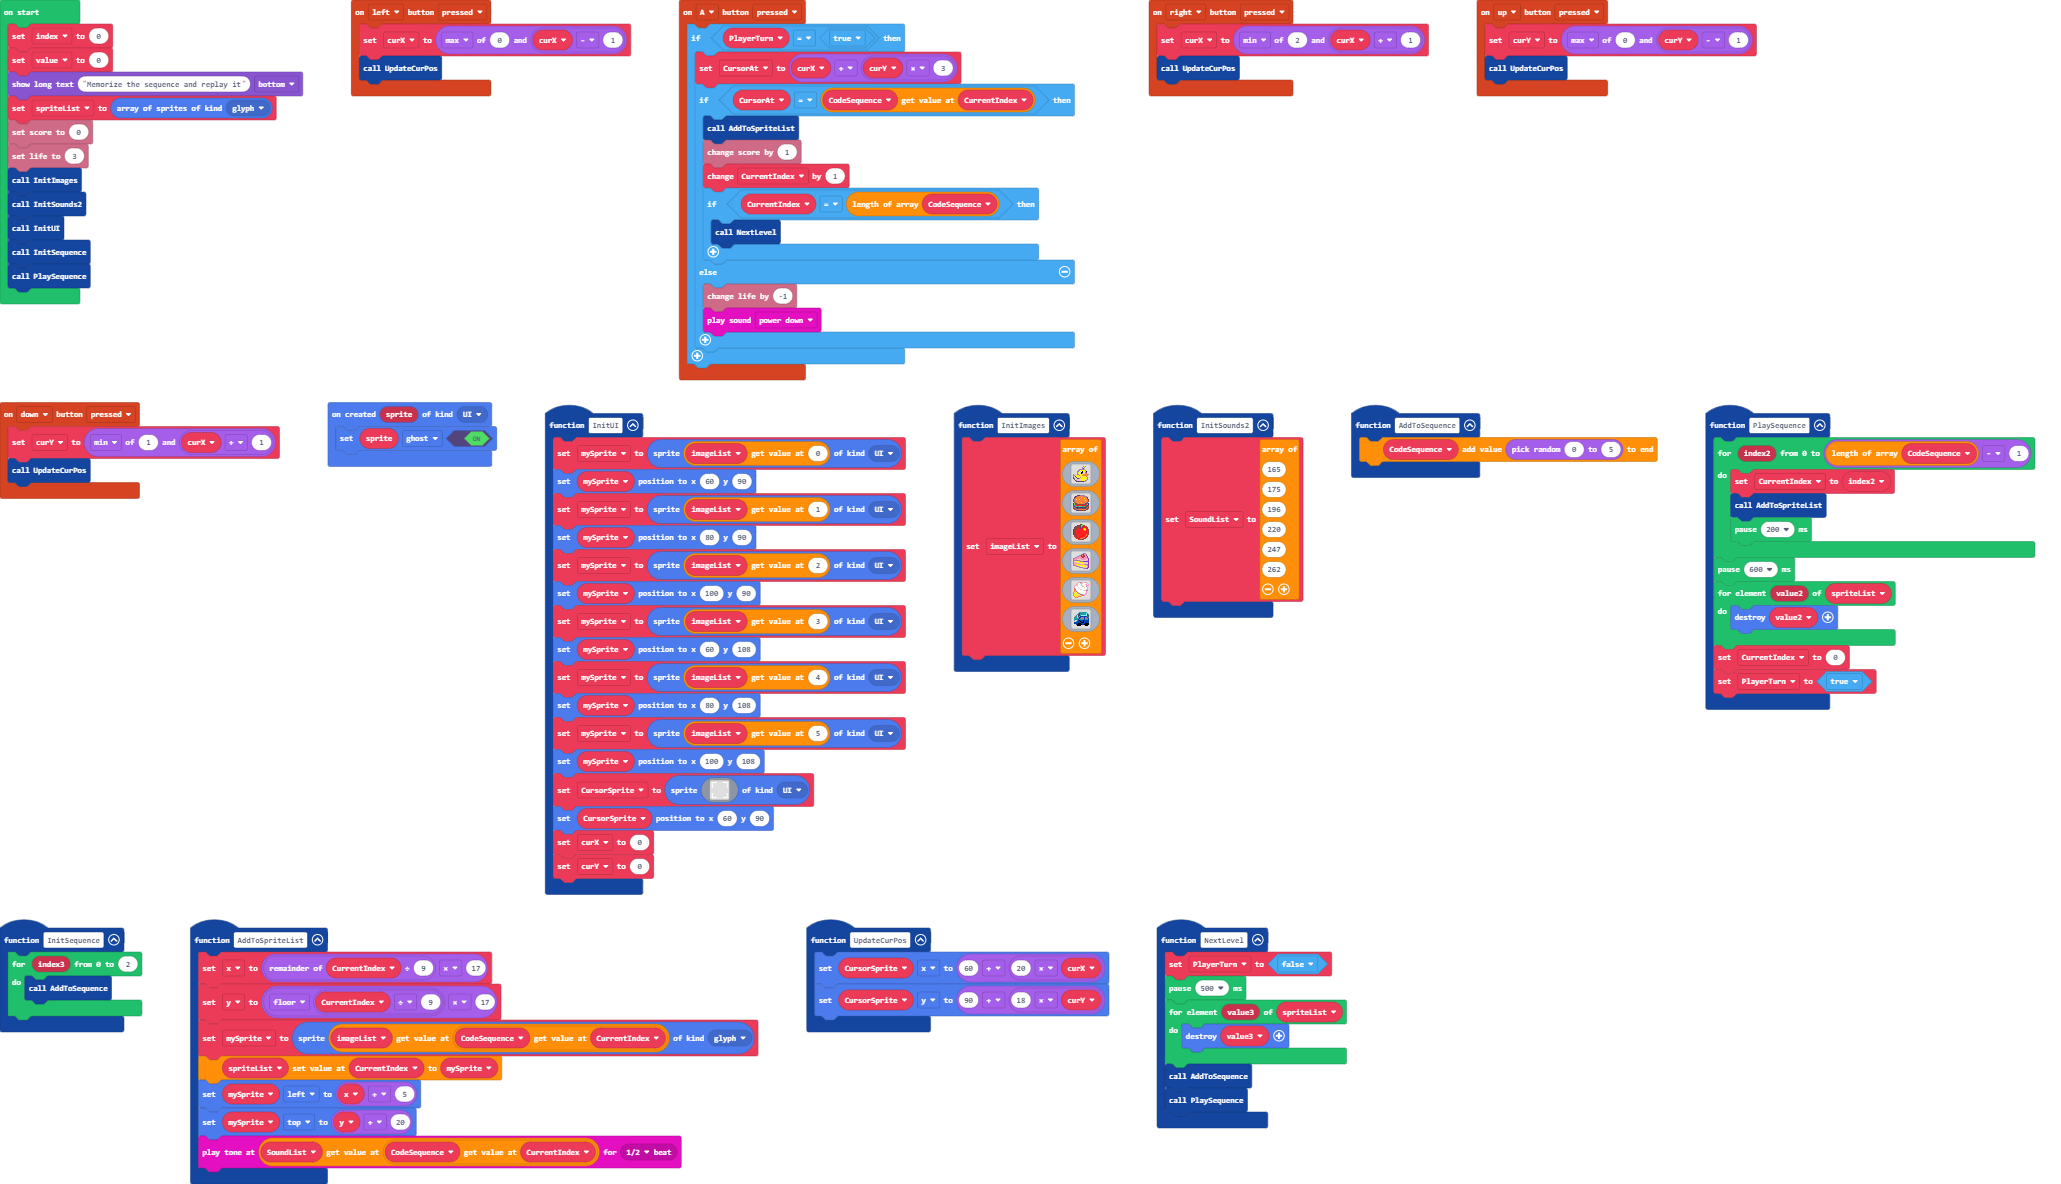
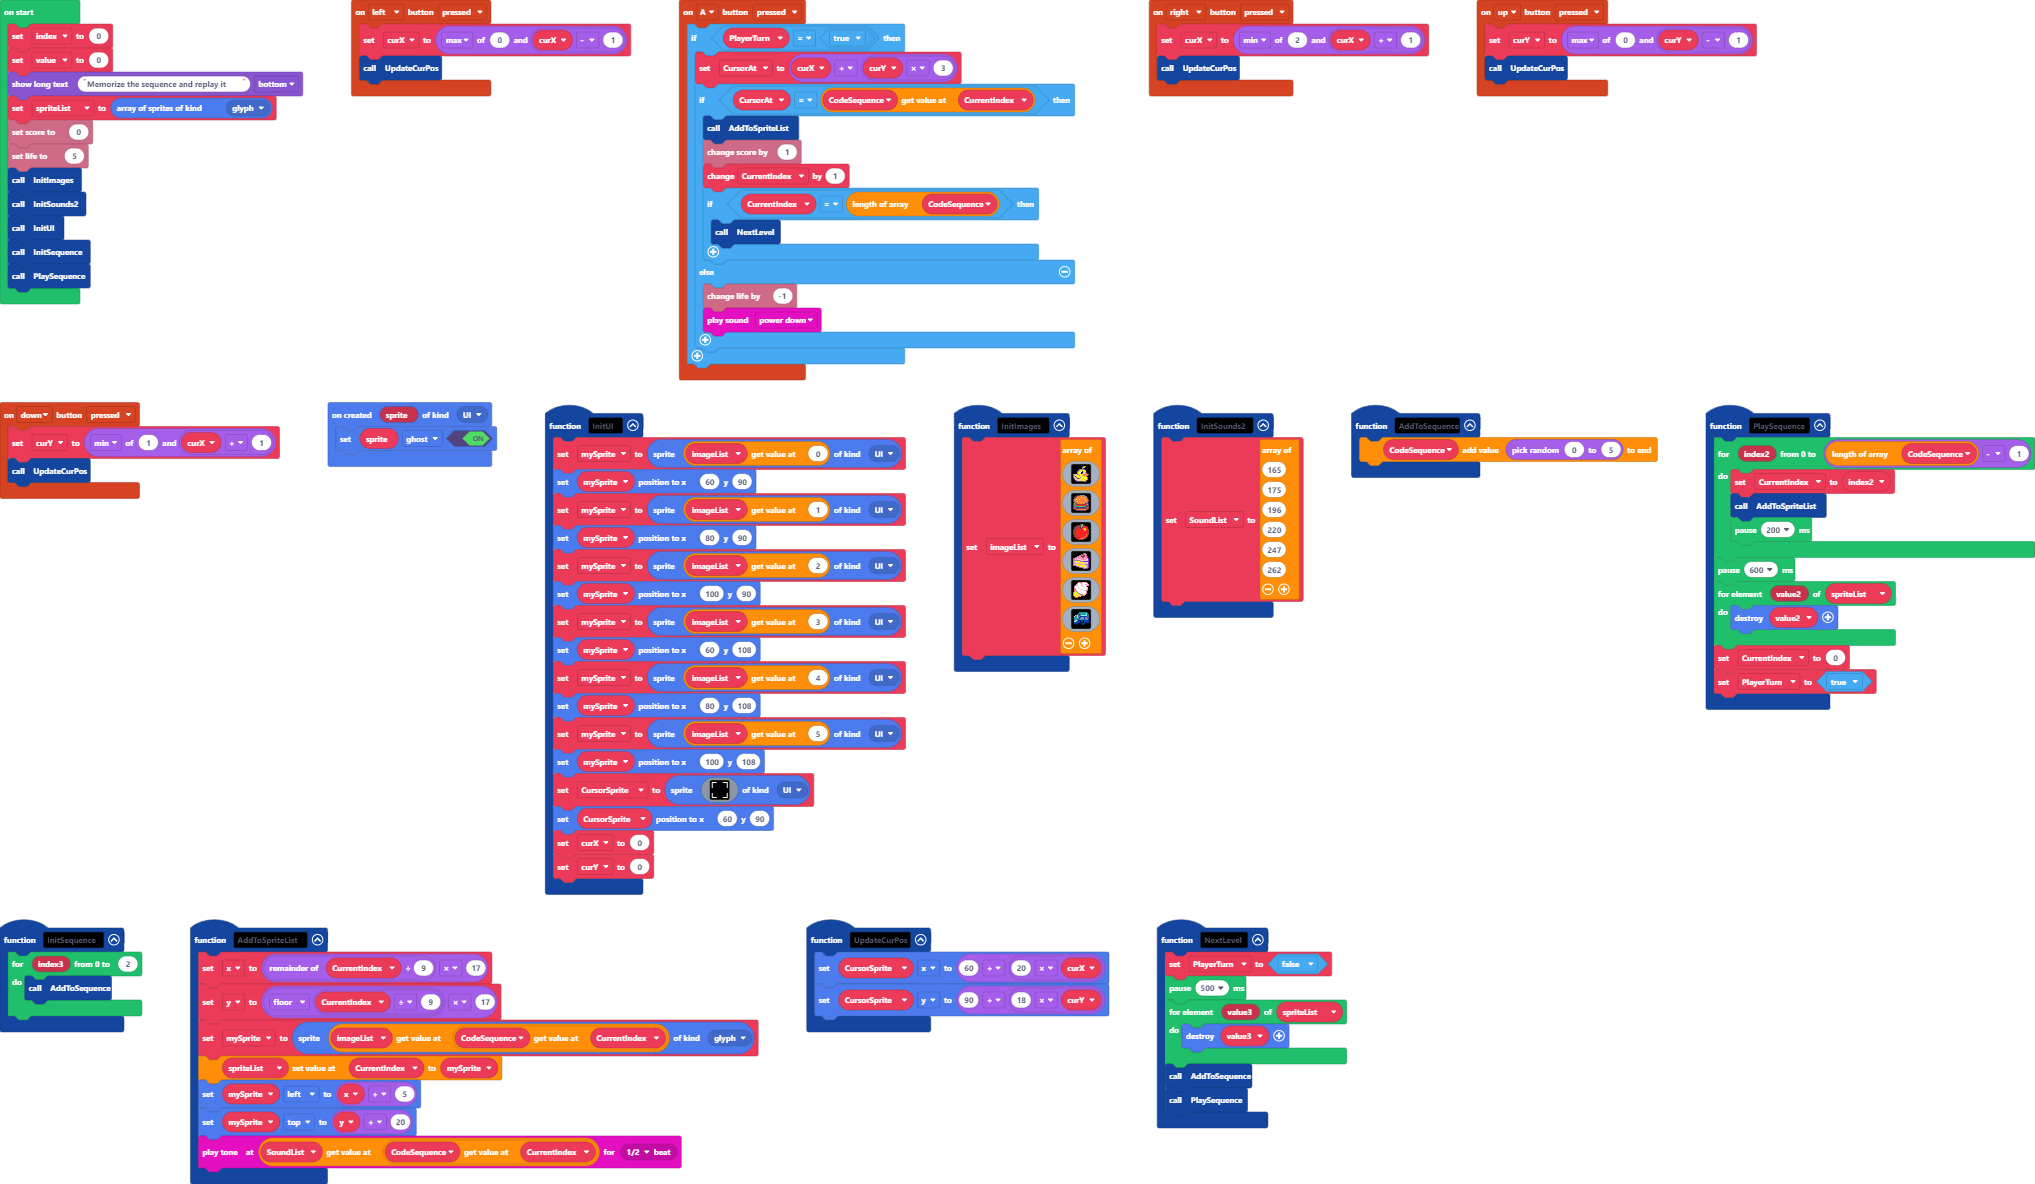
Update pxt.json, main.blocks, main.ts

diff --git a/main.ts b/main.ts
@@ -255,7 +255,7 @@ let value = 0
 game.showLongText("Memorize the sequence and replay it", DialogLayout.Bottom)
 spriteList = sprites.allOfKind(SpriteKind.glyph)
 info.setScore(0)
-info.setLife(3)
+info.setLife(5)
 InitImages()
 InitSounds2()
 InitUI()
